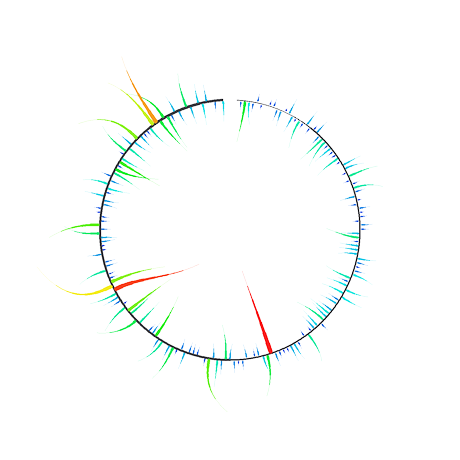
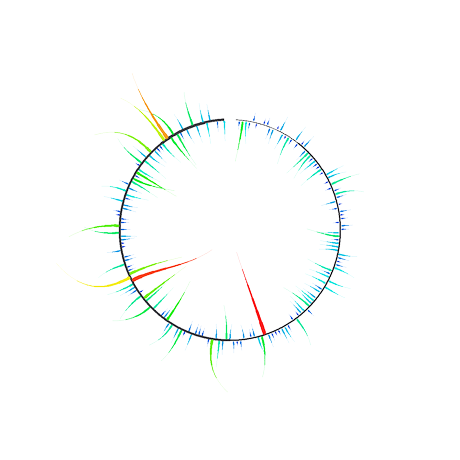
Re-render all glyphs with the 48% ring (codec v10)
Regenerate the gallery (g1–g6) and colourway swatches (ps/pmag/pm) with the
smaller, roomier 48% ring — matching the product pipeline's v10 render and
sitting closer to the hero canvas's proportions. Bump ?v=4 → ?v=5.

Claude-Session: https://claude.ai/code/session_019SA9tTx9JUW8atx3a4hjPQ

Changed region(s): [[0.1217, 0.1522, 0.7913, 0.8217], [0.5174, 0.6087, 0.5478, 0.6391], [0.3957, 0.5478, 0.4261, 0.5783]]

diff --git a/index.html b/index.html
@@ -239,10 +239,10 @@
           <p>The same message, four colourways. Pick the one that fits the piece.</p>
           <div class="scene">
             <div class="swatches">
-              <div class="plate sel"><img src="assets/ps.png?v=4" alt="signed colourway"></div>
-              <div class="plate sm"><img src="assets/pmag.png?v=4" alt="magnitude colourway"></div>
-              <div class="plate sm"><img src="assets/g6.png?v=4" alt="semantic colourway"></div>
-              <div class="plate sm"><img src="assets/pm.png?v=4" alt="muted colourway"></div>
+              <div class="plate sel"><img src="assets/ps.png?v=5" alt="signed colourway"></div>
+              <div class="plate sm"><img src="assets/pmag.png?v=5" alt="magnitude colourway"></div>
+              <div class="plate sm"><img src="assets/g6.png?v=5" alt="semantic colourway"></div>
+              <div class="plate sm"><img src="assets/pm.png?v=5" alt="muted colourway"></div>
             </div>
           </div>
         </div>
@@ -255,7 +255,7 @@
                 <path d="M100 20 C88 20 80 24 74 29 L44 45 C38 48 36 55 39 61 L47 76 C49 80 54 81 58 78 L64 74 L64 168 C64 173 68 177 73 177 L127 177 C132 177 136 173 136 168 L136 74 L142 78 C146 81 151 80 153 76 L161 61 C164 55 162 48 156 45 L126 29 C120 24 112 20 100 20 Z" fill="#C6CBD3" stroke="#8C95A0" stroke-width="1.5"/>
                 <path d="M86 23 C92 33 108 33 114 23" fill="none" stroke="#8C95A0" stroke-width="1.5"/>
               </svg>
-              <img src="assets/ps.png?v=4" alt="">
+              <img src="assets/ps.png?v=5" alt="">
             </div>
           </div>
         </div>
@@ -266,7 +266,7 @@
             <div class="phone">
               <div class="screen">
                 <div class="scan">
-                  <img src="assets/ps.png?v=4" alt="">
+                  <img src="assets/ps.png?v=5" alt="">
                   <span class="cnr tl"></span><span class="cnr tr"></span><span class="cnr bl"></span><span class="cnr br"></span>
                 </div>
                 <div class="decode">&ldquo;ideas are catching — pass them on.&rdquo;</div>
@@ -286,12 +286,12 @@
         <p>Every message becomes its own mark — from a single word to a whole paragraph, each one unique.</p>
       </div>
       <div class="grid">
-        <div class="card"><div class="glow"><img src="assets/g1.png?v=4" alt="signed glyph"></div><div class="txt">&ldquo;love&rdquo;</div></div>
-        <div class="card"><div class="glow"><img src="assets/g2.png?v=4" alt="magnitude glyph"></div><div class="txt">&ldquo;The best thing to hold onto in life is each other.&rdquo;</div></div>
-        <div class="card"><div class="glow"><img src="assets/g3.png?v=4" alt="muted glyph"></div><div class="txt">&ldquo;gravity&rdquo;</div></div>
-        <div class="card"><div class="glow"><img src="assets/g4.png?v=4" alt="semantic glyph"></div><div class="txt">&ldquo;Daria brings warmth to every room she walks into.&rdquo;</div></div>
-        <div class="card"><div class="glow"><img src="assets/g5.png?v=4" alt="signed glyph of a paragraph"></div><div class="txt">&ldquo;Quantum entanglement is a physical phenomenon where the state of each particle cannot be described independently of the others, even across a vast distance.&rdquo;</div></div>
-        <div class="card"><div class="glow"><img src="assets/g6.png?v=4" alt="semantic glyph of a phrase"></div><div class="txt">&ldquo;Creativity is contagious, pass it on.&rdquo;</div></div>
+        <div class="card"><div class="glow"><img src="assets/g1.png?v=5" alt="signed glyph"></div><div class="txt">&ldquo;love&rdquo;</div></div>
+        <div class="card"><div class="glow"><img src="assets/g2.png?v=5" alt="magnitude glyph"></div><div class="txt">&ldquo;The best thing to hold onto in life is each other.&rdquo;</div></div>
+        <div class="card"><div class="glow"><img src="assets/g3.png?v=5" alt="muted glyph"></div><div class="txt">&ldquo;gravity&rdquo;</div></div>
+        <div class="card"><div class="glow"><img src="assets/g4.png?v=5" alt="semantic glyph"></div><div class="txt">&ldquo;Daria brings warmth to every room she walks into.&rdquo;</div></div>
+        <div class="card"><div class="glow"><img src="assets/g5.png?v=5" alt="signed glyph of a paragraph"></div><div class="txt">&ldquo;Quantum entanglement is a physical phenomenon where the state of each particle cannot be described independently of the others, even across a vast distance.&rdquo;</div></div>
+        <div class="card"><div class="glow"><img src="assets/g6.png?v=5" alt="semantic glyph of a phrase"></div><div class="txt">&ldquo;Creativity is contagious, pass it on.&rdquo;</div></div>
       </div>
     </div>
   </section>
